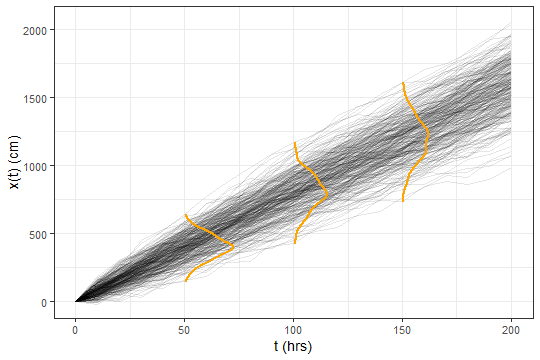
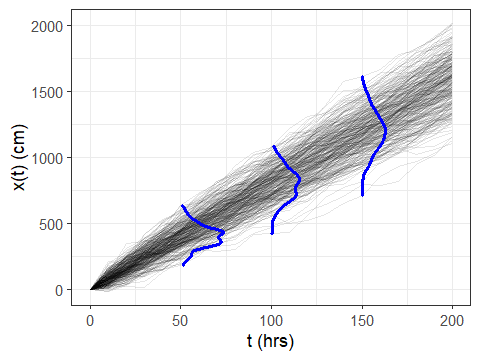
fixed some typos

diff --git a/_posts/2019-11-18-plotting-marginal-distributions-redux.md b/_posts/2019-11-18-plotting-marginal-distributions-redux.md
@@ -56,14 +56,14 @@ distributions at.
 
 ```r
 # extract specific times to compute marginal densities
-res.select = filter(res.plot, time %in% c(50, 150))
+res.select = filter(res.plot, time %in% c(50, 100, 150))
 ```
 
 But now, let's use `geom_vridgeline()` to plot the marginal
 distributions:
 
 ```r
-library(ggplot)
+library(ggplot2)
 library(ggridges)
 
 ggplot(res.plot) + theme_bw() +
@@ -76,7 +76,7 @@ ggplot(res.plot) + theme_bw() +
     data = res.select, 
     aes(group = time, width = ..density..), 
     stat = "ydensity", scale = 5000, 
-    fill = NA, color = "orange", size = 1
+    fill = NA, color = "blue", size = 1
   ) 
 ```
 
@@ -95,4 +95,8 @@ The result looks great:
 
 ![Realizations of a random walk with marginal distributions using ggridges](/images/2019-11-18-markov-marginal.png)
 
-And that's it! WAY easier than my old way.
+And that's it! WAY easier than my old way. Note that if you place
+too many marginal distributions at once, you can get some 
+[weird behavior]() in the axis extents set by `ggridges`. However,
+this is easy to work around by manually setting the x-axis limits
+using `ggplot2::coord_cartesian()`.
